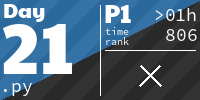
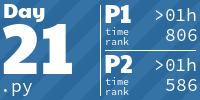
Add day 21

diff --git a/2024/21/21.py b/2024/21/21.py
@@ -1,55 +1,11 @@
-from collections import *
-from random import *
-from itertools import *
-from functools import *
-import numpy as np
-import networkx as nx
-# import z3
-import re
-import sys
-sys.setrecursionlimit(1000000)
+from functools import cache
+from random import random
 
-s1 = s2 = 0
+N = "789|456|123| 0A"
+NC = {c: (x,y) for y, r in enumerate(N.split('|')) for x, c in enumerate(r)}
 
-d4 = [1, 1j, -1, -1j]
-d8 = d4 + [1+1j, 1-1j, -1+1j, -1-1j]
-d4half = [i/2 for i in d4]
-d8half = [i/2 for i in d8]
-def adjacent(coord, dirs=d4):
-    return [coord + d for d in dirs]
-
-N = """
-+---+---+---+
-| 7 | 8 | 9 |
-+---+---+---+
-| 4 | 5 | 6 |
-+---+---+---+
-| 1 | 2 | 3 |
-+---+---+---+
-    | 0 | A |
-    +---+---+
-"""
-N = """
-789
-456
-123
- 0A
-"""
-NC = {c: (x,y) for y, r in enumerate(N.splitlines()) for x, c in enumerate(r)}
-
-R = """
-    +---+---+
-    | ^ | A |
-+---+---+---+
-| < | v | > |
-+---+---+---+
-"""
-R = """
- ^A
-<v>
-"""
-RC = {c: (x,y) for y, r in enumerate(R.splitlines()) for x, c in enumerate(r)}
-print(NC)
+R = " ^A|<v>"
+RC = {c: (x,y) for y, r in enumerate(R.split('|')) for x, c in enumerate(r)}
 
 @cache
 def path_to(start, end, numpad):
@@ -59,16 +15,12 @@ def path_to(start, end, numpad):
     dx = ex-sx
     dy = ey-sy
     spacex, spacey = pad[" "]
-    # print(dx, dy)
-    ri = ""
-    up = ""
+    ri = up = ""
     if not (sx == spacex and sy+dy == spacey):
-    # if sx+dx == spacex and sy == spacey:
         up += ("^" if dy < 0 else "v") * abs(dy)
         up += ("<" if dx < 0 else ">") * abs(dx)
 
     if not (sx+dx == spacex and sy == spacey):
-    # else:
         ri += ("<" if dx < 0 else ">") * abs(dx)
         ri += ("^" if dy < 0 else "v") * abs(dy)
 
@@ -78,16 +30,7 @@ def path_to(start, end, numpad):
         s = up or ri
     return s + "A"
     
-# print(path_to("<", "A", RC))
-# print(path_to("A", "<", RC))
-# exit()
-G = 26
-# G = 3
 
-# for r in R.replace("\n", "").strip():
-#     for r2 in R.replace("\n", "").strip():
-#         length(r, r2, 1)
-# exit()
 @cache
 def length(P, char, i):
     if i == 0: return 1
@@ -96,51 +39,23 @@ def length(P, char, i):
     for c in path_to(P, char, i==G):
         s += length(prev, c, i-1)
         prev = c
-    # print(i, " : ", P, char, "  =  ", s, "   path: ", path_to(P, char, i==G))
     return s
 
 def solve(code):
     path_to.cache_clear()
     length.cache_clear()
     prev = 'A'
-    seq = code
-
-
-
-    # for i in range(len(state)-1, -1, -1):
-    #     pad = i == len(state)-1
-    #     # print(i, pad)
-    #     new_seq = ""
-    #     for char in seq:
-    #         new_seq += path_to(prev, char, pad)
-    #         prev = char
-    #     seq = new_seq
-    #     print(i, len(seq))
-        # print()
     s = 0
-    for c in seq:
+    for c in code:
         s += length(prev, c, G)
         prev = c
-    # print(int(code[:-1]) * s)
     return int(code[:-1]) * s
 
-print(68 * 29, 60 * 980, 68 * 179, 64 * 456, 64 * 379)
+def simulate(code):
+    return min(solve(code) for _ in range(1000))
 
-def simul(code):
-    robots = 26
-    return min(solve(code) for _ in range(10000))
-
-# re.findall(r"\d+", line)
-for line in open(0):
-    # s = solve(line.strip(), list("AAA"))
-    s = simul(line.strip())
-    print(line.strip(), s)
-    s1 += s
-    # exit()
-    
-
-print(s1, s2, sep="\n")
-# 211930
-# 217398
-# 215546
-# 990957
+codes = open(0).read().split()
+G = 3
+print(sum(simulate(code) for code in codes))
+G = 26
+print(sum(simulate(code) for code in codes))

diff --git a/README.md b/README.md
@@ -1,9 +1,9 @@
 <!-- AOC TILES BEGIN -->
 <h1 align="center">
-  Advent of Code - 251/492 ⭐
+  Advent of Code - 252/492 ⭐
 </h1>
 <h1 align="center">
-  2024 - 41 ⭐ - Python
+  2024 - 42 ⭐ - Python
 </h1>
 <a href="2024/01/01.py">
   <img src=".aoc_tiles/tiles/2024/01.png" width="161px">
